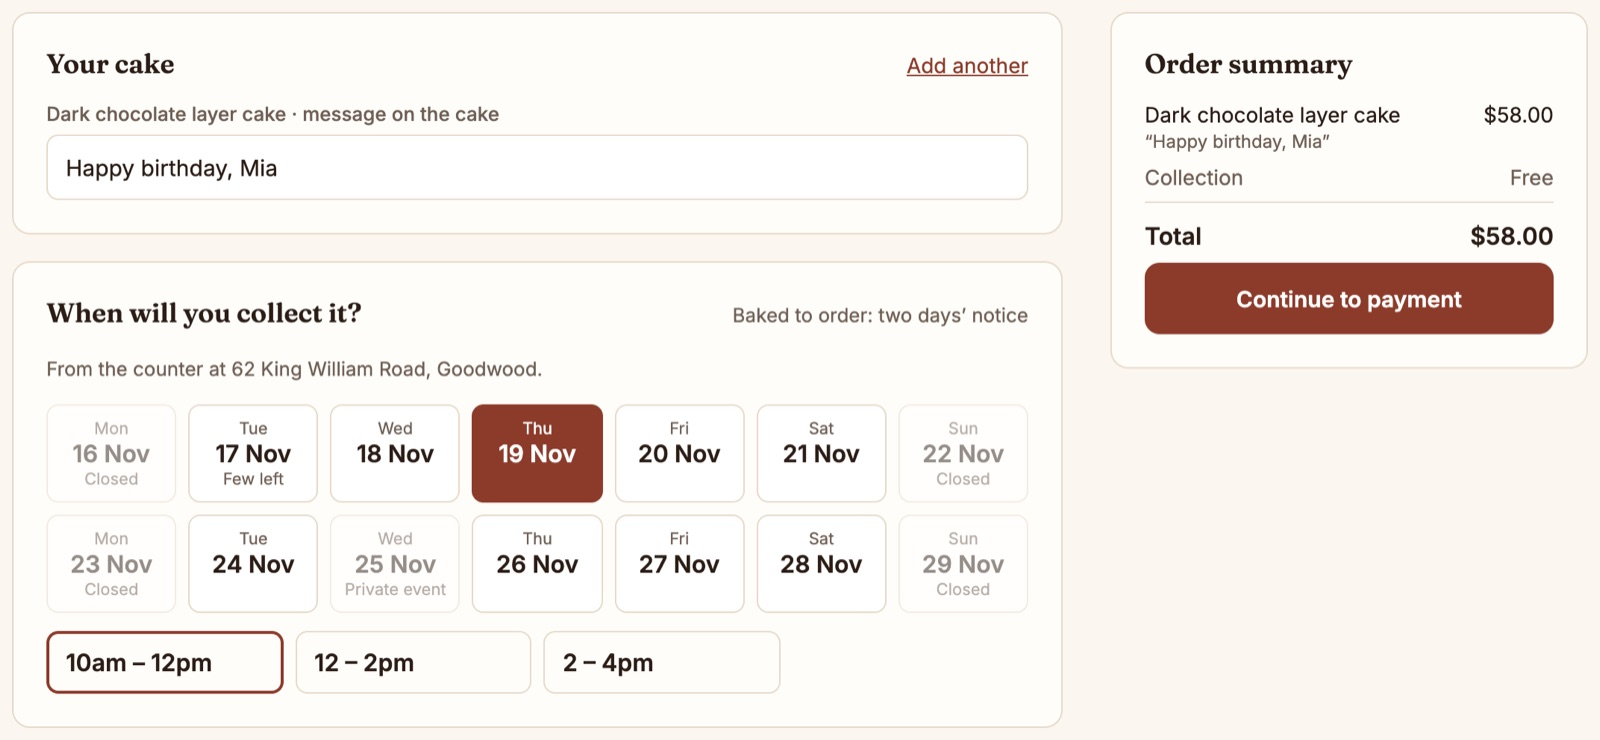
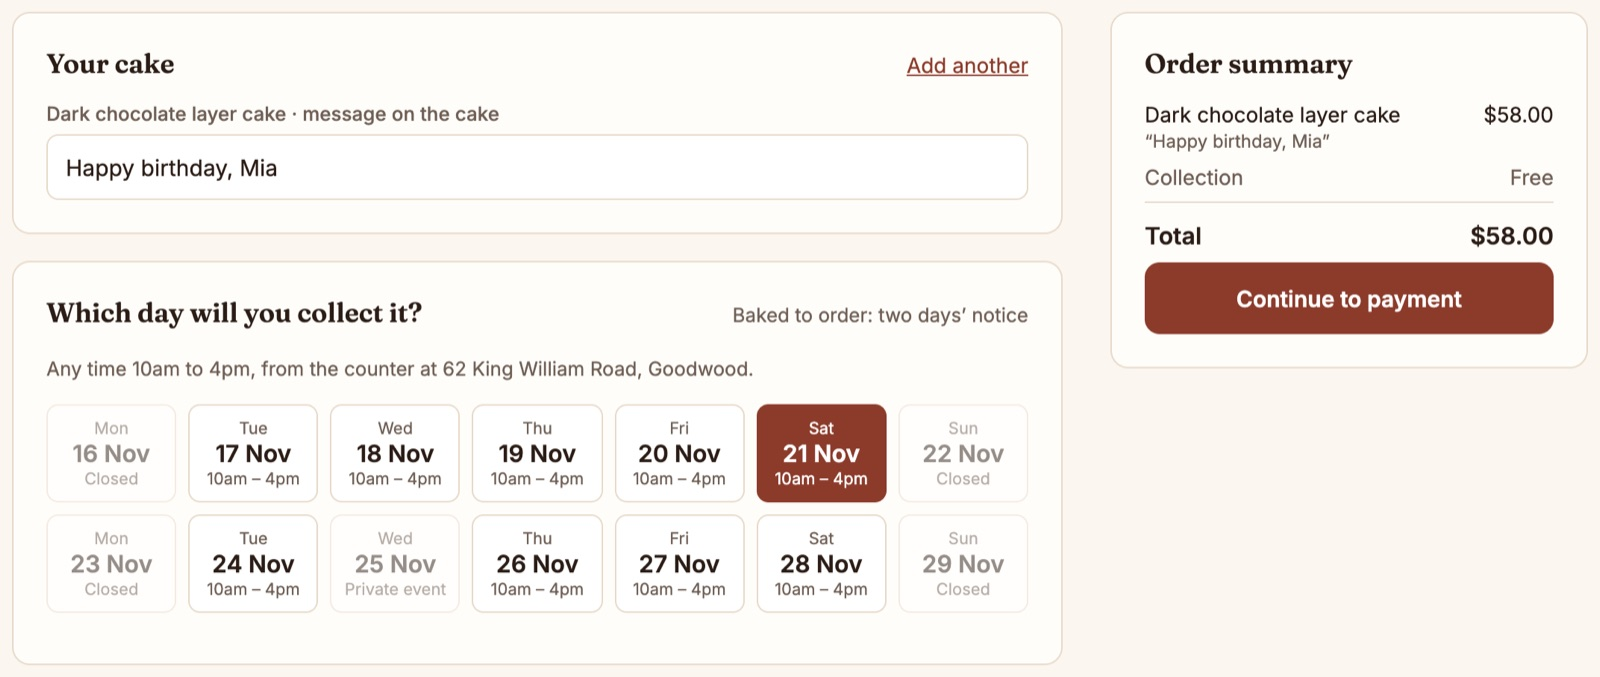
Show just the days when each day has one time
- The picker skips the time step when no day has more than one window, so a
  bakery's customers choose a collection day; a day with one time left is
  chosen along with it
- Cake shop example uses one window a day, with a note on timed collection

diff --git a/tests/Integration/PickerTest.php b/tests/Integration/PickerTest.php
@@ -1,0 +1,41 @@
+<?php
+
+namespace suprim\deliveryslots\tests\Integration;
+
+use suprim\deliveryslots\tests\TestCase;
+use suprim\deliveryslots\variables\DeliverySlotsVariable;
+
+/**
+ * The ready-made picker. Now is Monday 16 November, 9am.
+ */
+class PickerTest extends TestCase
+{
+    private function picker(): string
+    {
+        $cart = $this->cart();
+        $this->assertNull($this->plugin()->slots->choose($cart, '2026-11-18@10:00'));
+
+        return (string)(new DeliverySlotsVariable())->picker($cart, ['styles' => false]);
+    }
+
+    public function testOneWindowADayIsChosenByDay(): void
+    {
+        // A bakery: collect any time from 10 to 4, twelve cakes a day, closed on Sundays.
+        $this->schedule(['windows' => [['start' => '10:00', 'end' => '16:00', 'days' => [1, 2, 3, 4, 5, 6], 'capacity' => 12]]]);
+        $html = $this->picker();
+
+        $this->assertStringNotContainsString('data-slots', $html, 'No second step for the time.');
+        $this->assertMatchesRegularExpression('/<label class="ds-day">\s*<input type="radio" name="deliverySlot" value="2026-11-18@10:00"\s+checked>/', $html);
+        $this->assertStringContainsString('10am – 4pm', $html);
+        $this->assertMatchesRegularExpression('/ds-off">\s*<small>Sun<\/small>\s*<b>22 Nov<\/b>\s*<small>Closed<\/small>/', $html);
+    }
+
+    public function testSeveralWindowsKeepTheTimes(): void
+    {
+        $this->schedule();
+        $html = $this->picker();
+
+        $this->assertStringContainsString('data-slots', $html);
+        $this->assertStringContainsString('<button type="button" class="ds-day"', $html);
+    }
+}

diff --git a/docs/src/examples/cake-shop.md b/docs/src/examples/cake-shop.md
@@ -1,11 +1,11 @@
 # Cake Shop
 
-A bakery that bakes cakes to order for collection: two days’ notice, three cakes per two-hour window, closed Sundays and Mondays, with a message piped on top.
+A bakery that bakes cakes to order for collection: customers choose the day, not a time. Two days’ notice, twelve cakes a day, closed Sundays and Mondays, with a message piped on top.
 
-![Collecting a dark chocolate cake: Thursday 19 November chosen from two weeks of days, with Sundays and Mondays closed, Wednesday 25 a private event and Tuesday 17 nearly full](/examples/cake-shop.jpg)
+![Collecting a dark chocolate cake: Saturday 21 November chosen from two weeks of days, each open day showing 10am – 4pm, with Sundays and Mondays closed and Wednesday 25 a private event](/examples/cake-shop.jpg)
 
 - Days within two days show no times, so nobody orders a cake that can’t be baked in time.
-- Each window takes three cakes. A busy Saturday can take more with a one-off limit.
+- One window a day, so the picker shows days only: choosing the day chooses the time. The limit is how many cakes you can bake that day.
 - The message on the cake is saved on the order’s line item, so it shows on the order and the packing list.
 
 ## 1. The shipping method
@@ -20,13 +20,13 @@ In **Delivery Slots → Schedules**, open **Collect from the bakery**:
 
 | Setting | Value |
 |---|---|
-| **Time windows** | 10:00–12:00, 12:00–14:00, 14:00–16:00, Tuesday to Saturday |
-| **Orders per slot** | 3, or how many cakes you can finish in a window |
+| **Time windows** | One window, 10:00–16:00, Tuesday to Saturday |
+| **Orders per slot** | 12, or how many cakes you can bake in a day |
 | **Same-day slots** | Off |
 | **Book at least** | 48 hours |
 | **Show slots up to** | 14 days ahead |
 | **Closed days** | Public holidays, and days you’re catering, such as *Private event* |
-| **One-off changes** | 6 per window on a Saturday with an extra baker |
+| **One-off changes** | 18 on a Saturday with an extra baker |
 
 Leave **Zones** empty: anyone can collect.
 
@@ -73,15 +73,19 @@ Each cake is a small form that adds it to the cart with its message, as the line
     </label>
   {% endfor %}
 
-  <h2>When will you collect it?</h2>
-  <p>Baked to order: two days’ notice.</p>
+  <h2>Which day will you collect it?</h2>
+  <p>Any time 10am to 4pm. Baked to order: two days’ notice.</p>
   {{ craft.deliverySlots.picker(cart, {heading: false}) }}
 
   <button>Continue to payment</button>
 </form>
 ```
 
-The picker shows two weeks of days. Those inside the two days’ notice say *Ordering has closed*, closed days show their label, and nearly full ones say *Few left*.
+The picker shows two weeks of days, each with its hours. Days inside the two days’ notice say *Ordering has closed*, closed days show their label, and nearly full days say *2 left*.
+
+## Timed collection instead
+
+For cakes that must leave the fridge just before collection, or a counter that gets crowded, use two-hour windows with a few cakes each, such as 10:00–12:00, 12:00–14:00 and 14:00–16:00 with 4 each. The picker then shows the times for the chosen day.
 
 ## The confirmation
 

diff --git a/CHANGELOG.md b/CHANGELOG.md
@@ -4,7 +4,7 @@
 
 ### Added
 - Delivery and pickup time slots for Craft Commerce shipping methods, with time windows per weekday and a limit on orders per slot.
-- A ready-made slot picker for checkouts, `craft.deliverySlots.picker()`, or your own markup with `cart.deliverySlotDays`, posted with the cart form as `deliverySlot`.
+- A ready-made slot picker for checkouts, `craft.deliverySlots.picker()`, which shows just the days when each has one time, or your own markup with `cart.deliverySlotDays`, posted with the cart form as `deliverySlot`.
 - Slots are held for 15 minutes while customers check out, and for an hour once they go to pay. A slot is needed to go on from the delivery step, to pay, and to complete an order without payment.
 - Next-day cut-off, same-day slots, a minimum notice and how many days ahead to show.
 - Closed days with a label, and changes to one window on one date.

diff --git a/docs/src/guides/slot-picker.md b/docs/src/guides/slot-picker.md
@@ -13,6 +13,7 @@ Put it inside the form where customers choose a shipping method, which posts to 
 It shows:
 
 - the days, as buttons, and the chosen day’s times as radio buttons, with *Full*, *2 left* and slot fees;
+- just the days, when no day has more than one time, such as a bakery open 10am to 4pm: choosing the day chooses its time;
 - the error when a slot can’t be held, such as when it has just filled up;
 - *Choose a delivery time* when the form is sent without one, so customers can’t go on to payment without a time;
 - a notice when a new address means the chosen time isn’t offered there any more;
